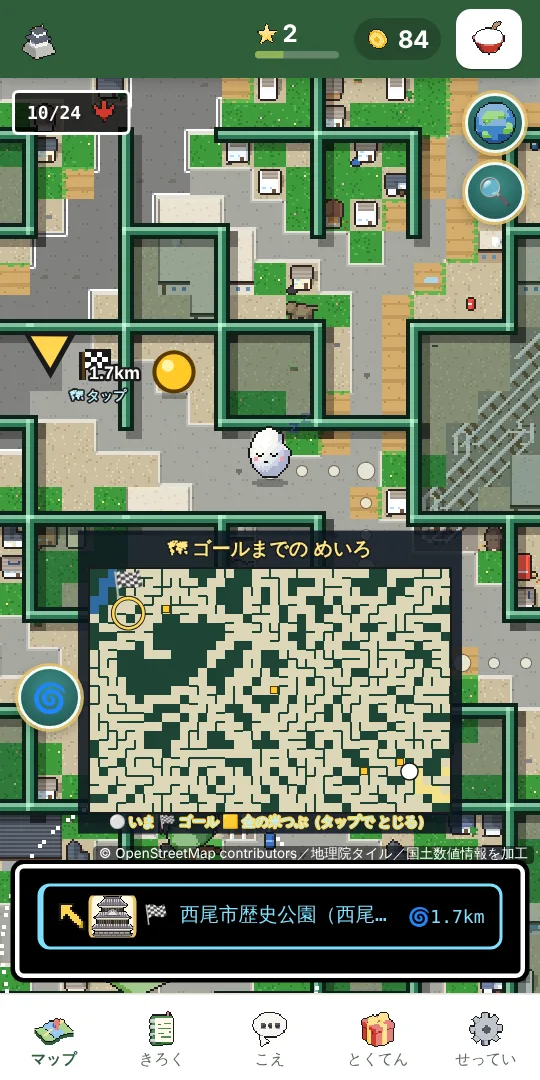
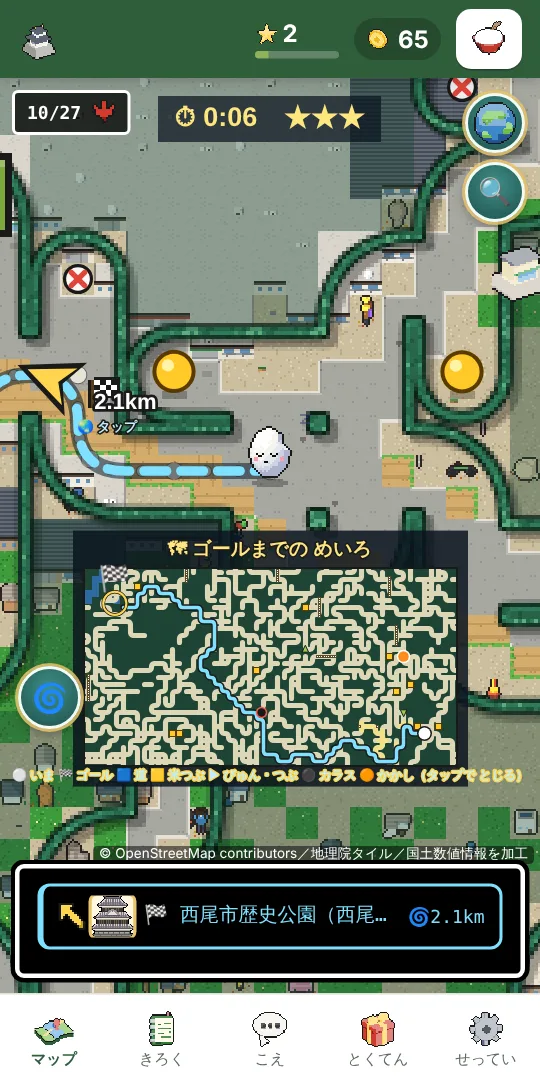
にしおさんぽGO：はじめの画面の写真・共有用の画像を いまの 見た目に 撮りなおし (#366) [skip ci]
## 何を したか
運営者の 声「トップ画像を 最新に」（はじめの画面の 写真・ricepia.jp の お知らせ欄・シェアの 画像）への 対応。

Claude-Session: https://claude.ai/code/session_01LKyh5zrgZ1g3dd89iSPEFE

diff --git a/nishio-go.html b/nishio-go.html
@@ -342,10 +342,10 @@
     <p class="warn">⚠ 歩きスマホ・傾けながら歩くのは やめましょう。立ち止まって遊んでください。</p>
     <!-- プレイ画面（どんなゲームか、絵で分かるように。遊びかたのボタンより下に置き、ボタンはスクロールしなくても見えるまま） -->
     <ul class="intro-shots" aria-label="プレイ画面">
-      <li><img src="nishio-go/shots/meiro.webp" alt="西尾の歩く地図が 緑の生け垣の めいろになり、お米が 通った あとに 足あとの 点が のこり、行き止まりに 金の米つぶ。画面の はしに ゴールの 🏁 と のこりの 道のり" width="540" height="1080" loading="lazy" decoding="async"/><span>地図が めいろに</span></li>
+      <li><img src="nishio-go/shots/meiro.webp" alt="西尾の歩く地図が 緑の生け垣の めいろになり、行き止まりに ✕、金の米つぶ、お米から ゴールへの 青い 道しるべ。画面の はしに ゴールの 🏁 と のこりの 道のり" width="540" height="1080" loading="lazy" decoding="async"/><span>地図が めいろに</span></li>
       <li><img src="nishio-go/shots/meiro-board.webp" alt="西尾駅の まわりの 本当の道で できた めいろ。立った 緑の 壁の あいだを、お米が ゴールの 西尾駅へ 転がる画面" width="540" height="1080" loading="lazy" decoding="async"/><span>めいろで ゴールへ</span></li>
       <li><img src="nishio-go/shots/roll.webp" alt="🗺 ゴールまでの めいろ図。お米の いる所から ゴールの 名所までの めいろを 上から 見た 小さな 図に、金の米つぶと 足あとも 出る" width="540" height="1080" loading="lazy" decoding="async"/><span>めいろ図で 道を考える</span></li>
-      <li><img src="nishio-go/shots/reward.webp" alt="はじめての たからばこから 名鉄の電車の ドット絵が 出た画面" width="540" height="1080" loading="lazy" decoding="async"/><span>ドット絵をあつめる</span></li>
+      <li><img src="nishio-go/shots/reward.webp" alt="はじめての たからばこから 抹茶と和菓子の ドット絵が 出た画面" width="540" height="1080" loading="lazy" decoding="async"/><span>ドット絵をあつめる</span></li>
       <li><img src="nishio-go/shots/world.webp" alt="西尾とまわりのまちの、せかいちず" width="540" height="1080" loading="lazy" decoding="async"/><span>名所をめぐる</span></li>
       <li><img src="nishio-go/shots/badges.webp" alt="バッジの画面" width="540" height="1080" loading="lazy" decoding="async"/><span>バッジをそろえる</span></li>
     </ul>

diff --git a/tools/make-shots.js b/tools/make-shots.js
@@ -3,7 +3,7 @@
 // ・「🌀 傾けて めいろ」で はじめて 遊ぶ 人と 同じ 順に すすむ（あそびかた → はじめの1枚 → めいろ）。画面の スティックや 📱/🚗 の 切りかえは もう ないので 写らない
 // ・撮るもの：reward（はじめの1枚の ごほうび）・meiro（地図の めいろ：生け垣・お米・足あと・金の米つぶ）・roll（🗺 ゴールまでの めいろ図）・world（せかいちず）・badges（バッジ）
 //   meiro-board.webp（🌀 ステージの めいろ）は ここでは 撮らない
-// 環境変数：CHROMIUM（Chromium の場所）、LEAFLET_DIR（ネットにつながらないとき）、SHOTS_PORT、SHOTS（撮る 名前を カンマで。例 meiro,roll）
+// 環境変数：CHROMIUM（Chromium の場所）、LEAFLET_DIR（ネットにつながらないとき）、SHOTS_PORT、SHOTS（撮る 名前を カンマで。例 meiro,roll）、SHOTS_TIME（画面の 時刻。既定は きょうの 正午）
 const { chromium } = require('playwright');
 const fs = require('fs'), path = require('path');
 const { startServer, ROOT } = require('./bake-common');
@@ -19,6 +19,9 @@ const sleep = ms => new Promise(r => setTimeout(r, ms));
   const browser = await chromium.launch(process.env.CHROMIUM ? { executablePath: process.env.CHROMIUM } : {});
   const ctx = await browser.newContext({ viewport: { width: 360, height: 720 }, deviceScaleFactor: 1.5, timezoneId: 'Asia/Tokyo', locale: 'ja-JP' });
   await ctx.addInitScript(() => { localStorage.setItem('nsg_bgm', 'false'); localStorage.setItem('nsg_noanalytics', '1'); });
+  // ゲームは 本当の 時刻で 空の 明るさが かわる。夜に 撮っても 昼の 画面に なるよう、きょうの 正午（日本時間）に 固定（make-ogp.js と 同じ。SHOTS_TIME で かえられる）
+  const day = new Date(Date.now() + 9 * 3600e3).toISOString().slice(0, 10);
+  await ctx.clock.setFixedTime(new Date(process.env.SHOTS_TIME || `${day}T12:00:00+09:00`));
   const page = await ctx.newPage();
   page.on('pageerror', e => console.log('pageerror:', e.message));
   if (process.env.LEAFLET_DIR) await page.route('https://unpkg.com/**', r => {

diff --git a/ricepia-jp/index.html b/ricepia-jp/index.html
@@ -4566,9 +4566,9 @@
       <li>⛰ 本当の高低差の坂</li>
     </ul>
     <ul class="ng-shots" aria-label="プレイ画面">
-      <li><img src="https://go.ricepia.jp/nishio-go/shots/meiro.webp" alt="西尾の地図が 緑の生け垣の めいろになり、お米の 通った あとに 足あと、行き止まりに 金の米つぶが ある画面" width="540" height="1080" loading="lazy"><span>地図が めいろに</span></li>
+      <li><img src="https://go.ricepia.jp/nishio-go/shots/meiro.webp" alt="西尾の地図が 緑の生け垣の めいろになり、行き止まりに ✕、金の米つぶ、ゴールへの 青い 道しるべが ある画面" width="540" height="1080" loading="lazy"><span>地図が めいろに</span></li>
       <li><img src="https://go.ricepia.jp/nishio-go/shots/roll.webp" alt="お米の いる所から ゴールの 名所までの めいろを 上から 見た「ゴールまでの めいろ」の 図" width="540" height="1080" loading="lazy"><span>めいろ図で 道を考える</span></li>
-      <li><img src="https://go.ricepia.jp/nishio-go/shots/reward.webp" alt="はじめての たからばこを開けて、名鉄の電車のドット絵をもらった画面" width="540" height="1080" loading="lazy"><span>ドット絵をあつめる</span></li>
+      <li><img src="https://go.ricepia.jp/nishio-go/shots/reward.webp" alt="はじめての たからばこを開けて、抹茶と和菓子のドット絵をもらった画面" width="540" height="1080" loading="lazy"><span>ドット絵をあつめる</span></li>
       <li><img src="https://go.ricepia.jp/nishio-go/shots/world.webp" alt="西尾市と となりの市町の、名所が並んだ地図の画面" width="540" height="1080" loading="lazy"><span>名所をめぐる</span></li>
     </ul>
     <a class="ng-btn" href="https://go.ricepia.jp/?utm_source=ricepia.jp&amp;utm_medium=referral&amp;utm_campaign=homepage" target="_blank" rel="noopener">▶ あそんでみる</a>

diff --git a/ricepia-jp/game-section.html b/ricepia-jp/game-section.html
@@ -34,9 +34,9 @@
       <li>⛰ 本当の高低差の坂</li>
     </ul>
     <ul class="ng-shots" aria-label="プレイ画面">
-      <li><img src="https://go.ricepia.jp/nishio-go/shots/meiro.webp" alt="西尾の地図が 緑の生け垣の めいろになり、お米の 通った あとに 足あと、行き止まりに 金の米つぶが ある画面" width="540" height="1080" loading="lazy"><span>地図が めいろに</span></li>
+      <li><img src="https://go.ricepia.jp/nishio-go/shots/meiro.webp" alt="西尾の地図が 緑の生け垣の めいろになり、行き止まりに ✕、金の米つぶ、ゴールへの 青い 道しるべが ある画面" width="540" height="1080" loading="lazy"><span>地図が めいろに</span></li>
       <li><img src="https://go.ricepia.jp/nishio-go/shots/roll.webp" alt="お米の いる所から ゴールの 名所までの めいろを 上から 見た「ゴールまでの めいろ」の 図" width="540" height="1080" loading="lazy"><span>めいろ図で 道を考える</span></li>
-      <li><img src="https://go.ricepia.jp/nishio-go/shots/reward.webp" alt="はじめての たからばこを開けて、名鉄の電車のドット絵をもらった画面" width="540" height="1080" loading="lazy"><span>ドット絵をあつめる</span></li>
+      <li><img src="https://go.ricepia.jp/nishio-go/shots/reward.webp" alt="はじめての たからばこを開けて、抹茶と和菓子のドット絵をもらった画面" width="540" height="1080" loading="lazy"><span>ドット絵をあつめる</span></li>
       <li><img src="https://go.ricepia.jp/nishio-go/shots/world.webp" alt="西尾市と となりの市町の、名所が並んだ地図の画面" width="540" height="1080" loading="lazy"><span>名所をめぐる</span></li>
     </ul>
     <a class="ng-btn" href="https://go.ricepia.jp/?utm_source=ricepia.jp&amp;utm_medium=referral&amp;utm_campaign=homepage" target="_blank" rel="noopener">▶ あそんでみる</a>

diff --git a/docs/meiro.md b/docs/meiro.md
@@ -78,6 +78,11 @@
   - `meiro.webp`・`roll.webp`・`reward.webp`・`world.webp` に、はずした 画面の スティック・📱/🚗 の 切りかえが 写って いたので、ほんとうの ゲーム画面から 撮りなおした（`node tools/make-shots.js`。「🌀 傾けて めいろ」→ あそびかた → はじめの1枚 → 矢印キーで 金の米つぶの 行き止まりの 手前まで 転がす）。はずした ボタンが 写ると 止まる（プレイテスト `controlsGone` と 同じ id）
   - `meiro.webp`：生け垣・お米・足あと・金の米つぶ・縁の 🏁 と 道のり。`roll.webp`：🗺 ゴールまでの めいろ図（見出しを「めいろ図で 道を考える」に）。`badges.webp` も いまの 下の メニュー（名前つき）で。`meiro-board.webp`（🌀 ステージの めいろ）は そのまま
   - ricepia.jp の お知らせ欄（`ricepia-jp/game-section.html` → `python3 tools/build-ricepia-jp.py`）の 説明も 写真に あわせた
+- はじめの画面の 写真・共有用の 画像を いまの 見た目に 撮りなおし（2026-10-27、運営者の声「トップ画像を最新に」）
+  - `node tools/make-shots.js`：まるい 生け垣・行き止まりの ✕・青い 道しるべ・⏱ と ★ が 写る。`make-shots.js` は 時刻を その日の 正午（日本時間）に 固定する ように した（夜に 撮ると 空が 暗く なって いた。`SHOTS_TIME` で かえられる）
+  - ホーム画面に 追加の 写真（`shots/install-*.jpg`）は 新しい webp から JPEG に しなおし、共有用の 画像（`ogp.png`）も `node tools/make-ogp.js` で 撮りなおした
+  - 写真の 説明（alt）を 新しい 絵に あわせた（`nishio-go.html`・`ricepia-jp/game-section.html` → `python3 tools/build-ricepia-jp.py`）。ricepia.jp の お知らせ欄の 絵は go.ricepia.jp の 写真を 読むので 公開で 新しく なる（説明の 文は アップロード するまで 前の まま）
+  - `meiro-board.webp`（🌀 ステージの めいろ）は 撮る 道具が ないので そのまま
 - 運営者の声「迷路を磨く」（2026-10-24 つづき）
   - ⏱ ゴールまでの タイムと ★（`mzClock`・`drawMzClock`・`mzPar`）：新しい ゴールが きまると 時計が 動き、画面の 上に「⏱ 0:42　★★★ あと 1:18」。★3 の 目やすは めいろの 道のりから（1秒に 12m＋10秒。2km で 約3分）、★2 は その 1.8倍、それより おそいと ★1。★が へる 5秒前は ちかちか
   - 着いたら ごほうびに「★★★ はやい！ +10」（★2 +5・★1 +2。`game.js` の `MZ_STAR_PTS`）と、地図の「🏁 ゴール！」にも ★。アクセス解析 `maze_goal` に stars
